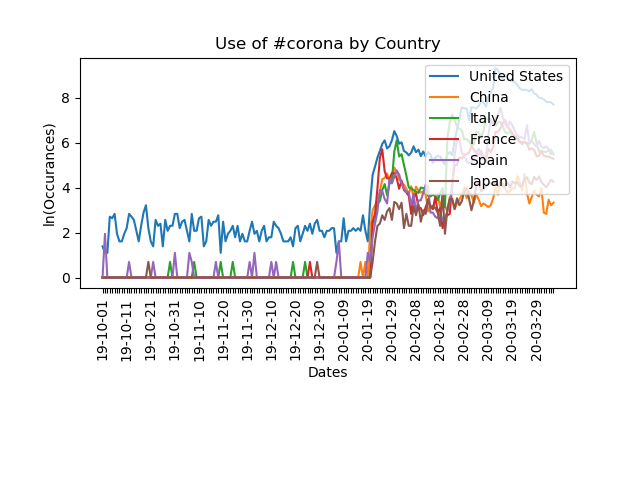
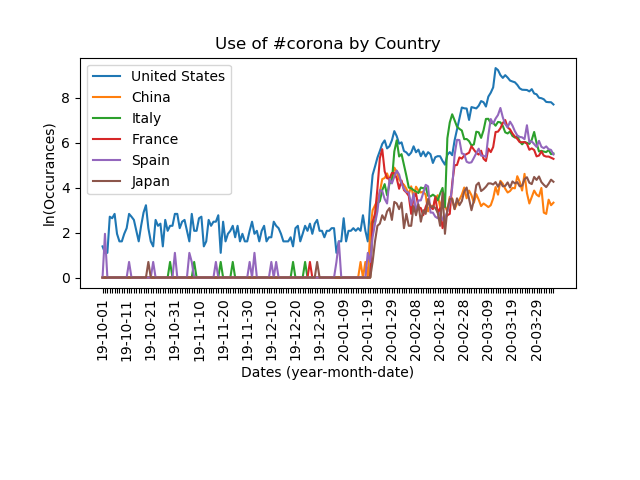
final graph

Changed region(s): [[0.6562, 0.125, 0.875, 0.4062], [0.125, 0.125, 0.375, 0.4062], [0.375, 0.75, 0.6562, 0.7812]]

diff --git a/src/graphy.py b/src/graphy.py
@@ -78,7 +78,7 @@ plt.plot(ES, label = 'Spain')
 plt.plot(JP, label = 'Japan')
 
 plt.title("Use of #corona by Country")
-plt.xlabel("Dates")
+plt.xlabel("Dates (year-month-date)")
 plt.ylabel("ln(Occurances)")
 
 z = np.arange(len(dates))
@@ -95,7 +95,7 @@ plt.xticks(z,dates, rotation = 90)
 
 #plt.gcf().subplots_adjust(left=margin, right=1.-margin)
 #plt.gcf().set_size_inches(s, plt.gcf().get_size_inches()[1])
-plt.legend(loc = 'upper right')
+plt.legend(loc = 'upper left')
 
 plt.gcf().subplots_adjust(bottom=0.4)
 
